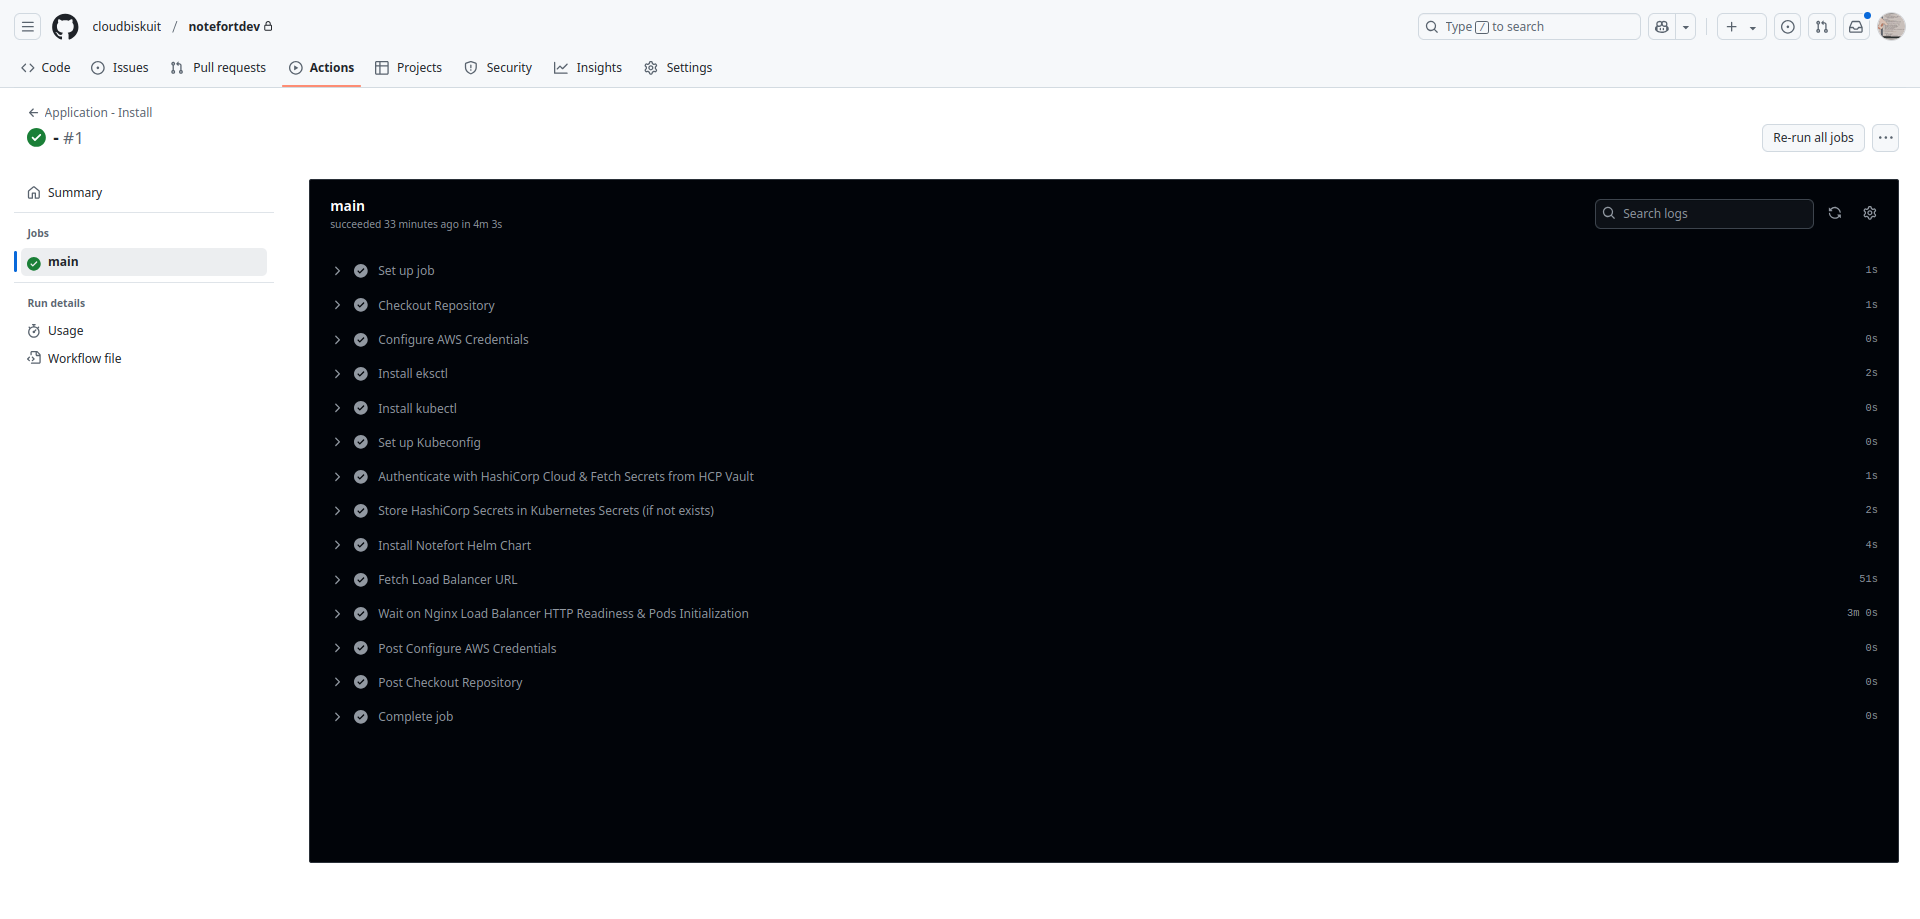
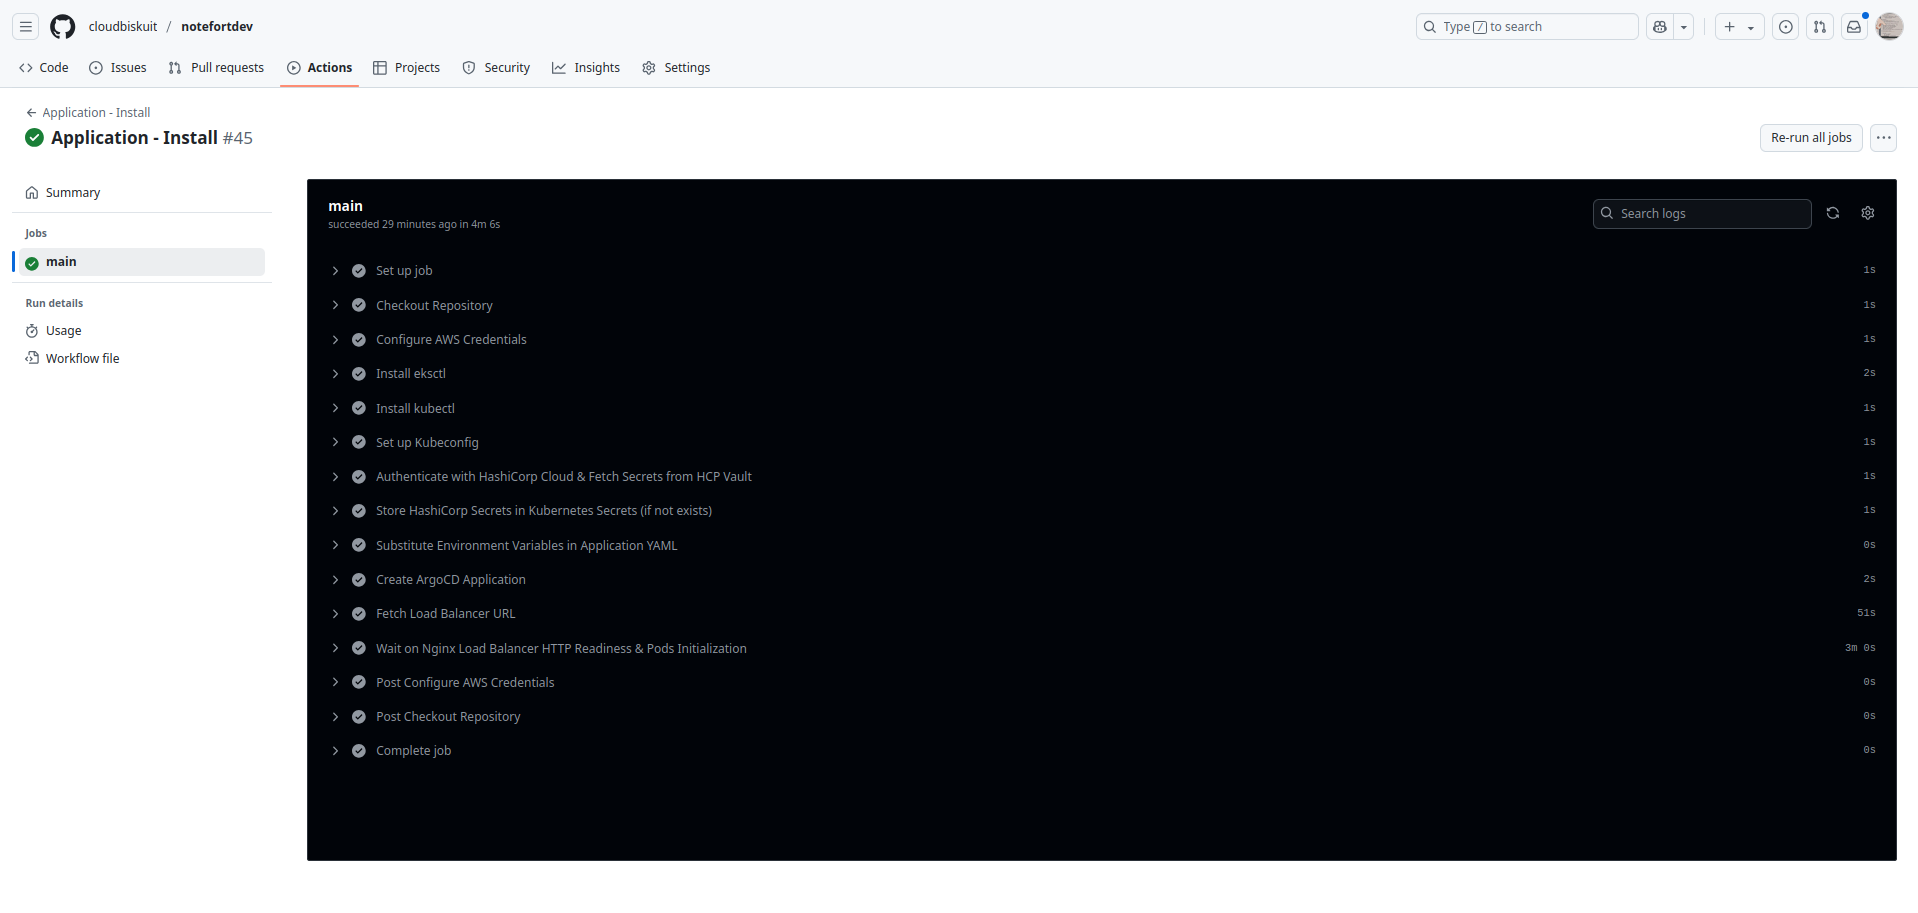
-

diff --git a/README.md b/README.md
@@ -2,7 +2,7 @@
 No matter the size of your enterprise application, you could benefit from the design and deployment principles of NoteFort to ensure scalability and resilience in the cloud.
 
 ## Purpose
-My primary goal is to demonstrate my expertise in cloud design and DevOps best practices.  
+My primary goal is to demonstrate my expertise in cloud, DevOps and GitOps best practices.  
 
 ## Description
 NoteFort ensures availability of your notes through a decoupled backend microservices architecture even if individual services experience downtime.  
@@ -44,7 +44,8 @@ Conversely, if nodes are underutilized and pods can be moved to other nodes, the
 HPA adjusts the number of pod replicas based on CPU or memory utilization, ensuring optimal load distribution and availability.  
 VPA, on the other hand, dynamically adjusts the resource requests and limits of individual pods based on usage, improving resource efficiency. 
 - **Prometheus & Grafana**: Prometheus is an open-source monitoring and alerting toolkit designed for reliability and scalability. It collects and stores metrics in a time-series database, allowing for real-time monitoring of applications and infrastructure.  
-Grafana is an open-source visualization and analytics platform that integrates with Prometheus to display the collected metrics in customizable, interactive dashboards. 
+Grafana is an open-source visualization and analytics platform that integrates with Prometheus to display the collected metrics in customizable, interactive dashboards.  
+- **ArgoCD**: ArgoCD is a declarative, GitOps-based continuous delivery tool for Kubernetes. It automates application deployment by syncing the desired state from a Git repository to a Kubernetes cluster, ensuring consistency and version control.
 
 ## Try it Out: Prerequisites
 
@@ -79,6 +80,7 @@ Forking does not copy Github Actions Secrets. Create the following Github Action
 
 - **AWS_ACCOUNT_ID**: The 12-digit AWS account number where the resources will be deployed.
 - **AWS_REGION**: The AWS region (e.g., us-east-1) where the infrastructure will be provisioned.
+- **GH_ACCOUNT**: You GitHub account name.
 - **GH_IAM_ROLE**: The name of the IAM role you created in the Prerequisites step.
 - **AWS_USER**: The IAM user to be given administrative priviliges on the EKS cluster, this user will be able to view and manage the new EKS cluster in the AWS Console and from AWS CLI. 
 - **HCP_CLIENT_ID**: The HCP service principal client ID.
@@ -116,18 +118,15 @@ This workflow performs the following jobs:
 - Intialize Terraform state in the newly created bucket.
 - Provision the AWS infrastructure and the EKS cluster resources.
 - Map the IAM user to Kubernetes RBAC.
-- Install the Cluster Autoscaler, the Vertical Pod Autoscaler (VPA), and the Metrics Server in the EKS `kube-system` namespace.
-- Install Prometheus and its Adapter, and Grafana in the EKS `monitoring` namespace.
+- Install the Cluster Autoscaler, the Vertical Pod Autoscaler (VPA), and the Metrics Server in the EKS `kube-system` namespace via Helm.
+- Install Prometheus and its Adapter, and Grafana in the EKS `monitoring` namespace via Helm.
+- Install ArgoCD via Helm.
 
-Note: The code is ready for multiple environments (e.g., development and production), modify `dev.tfvars` and `prod.tfvars` as needed (e.g., launch template instance type, node group desired min max). Additionaly, modify `terraform apply` commands to account for `.tfvars` files.
+The Terraform directory structure is ready for multiple environments (e.g., development and production), modify `dev.tfvars` and `prod.tfvars` as needed (e.g., launch template instance type, node group desired min max). Additionaly, modify `terraform apply` commands to account for `.tfvars` files.
 
-Note: the IAM user defined in the GitHub Actions Variable `AWS_USER` will be mapped to the system:masters EKS RBAC group, granting them administrative privileges on the newly created cluster. As a result, `AWS_USER` will be able to view and manage the new EKS cluster in the AWS Console and from AWS CLI. 
+The IAM user defined in the GitHub Actions Variable `AWS_USER` will be mapped to the system:masters EKS RBAC group, granting them administrative privileges on the newly created cluster. As a result, `AWS_USER` will be able to view and manage the new EKS cluster in the AWS Console and from AWS CLI. 
 
-Note: The necessary IAM permissions for the Cluster Autoscaler to modify EKS node groups have already been accounted for by attaching a managed IAM policy to the IAM role associated with the node groups.
-
-Note: Follow the instructions provided in the workflow output to get Grafana password, and to port-forward a tunnel to Grafana. To access Grafana UI on your system, go to: https://localhost:3000
-
-Note: On your system, run the following command to port-forward to Prometheus: kubectl port-forward -n monitoring svc/prometheus-operated `port`:9090 where port is a free port on your local system. To access Prometheus UI on your system, go to: https://localhost:`port`
+The necessary IAM permissions for the Cluster Autoscaler to modify EKS node groups have already been accounted for by attaching a managed IAM policy to the IAM role associated with the node groups.
 
 #### Infrastructure - Destroy
 This workflow destroys the AWS infrastructure and the EKS cluster.
@@ -141,7 +140,7 @@ Additionaly, To delete the S3 bucket and the DynamoDB Table, from your system ru
 Ensure AWC CLI is configured on your system before running this script.
 
 #### Application - Install
-This workflow Installs the application Helm chart. The `URL` will be provided in the terminal output after the Workflow completes.
+This workflow Creates an ArgoCD Application using NoteFort Helm chart. After the Workflow completes, the `URL` will be provided in the terminal output.
 
 Note: The Helm chart is ready for multiple instances of the application (e.g., development and production).
 
@@ -151,16 +150,25 @@ This workflow performs the following Steps:
 - Scale down stateless services.
 - Gracefully stop RabbitMQ service.
 - Prepare MySql statefulsets for for graceful shutdown and scale them down.
-- Uninstall the application Helm chart.
+- Delete ArgoCD NoteFort Application.
+
+## How to Access Prometheus, Grafana and ArgoCD
+Prometheus:  
+Follow the instructions provided in the workflow output to get the username/password, and to port-forward a tunnel to Prometheus.  
+To access Prometheus UI on your system, go to: https://localhost:`port`
+
+Grafana:  
+Follow the instructions provided in the workflow output to get the username/password, and to port-forward a tunnel to Grafana.  
+To access Grafana UI on your system, go to: https://localhost:`port`
+
+ArgoCD:  
+Follow the instructions provided in the workflow output to get the username/password, and to port-forward a tunnel to ArgoCD.  
+To access ArgoCD UI on your system, go to: https://localhost:`port`
 
 ## PoC
 Here's a demonstration of Notefort successfully deployed on AWS EKS and running as expected, confirming the end-to-end setup from infrastructure provisioning to application deployment.
 
 <br>
-
-<div align="center">
-  <img src="./images/backend-create.png" width="1000">
-</div>  
 
 <div align="center">
   <img src="./images/workflows.png" width="1000">
@@ -199,11 +207,11 @@ Here's a demonstration of Notefort successfully deployed on AWS EKS and running 
 </div>  
 
 <div align="center">
-  <img src="./images/application-install.png" width="1000">
+  <img src="./images/argocd-setup.png" width="1000">
 </div>  
 
 <div align="center">
-  <img src="./images/helm.png" width="1000">
+  <img src="./images/application-install.png" width="1000">
 </div>  
 
 <div align="center">
@@ -216,6 +224,14 @@ Here's a demonstration of Notefort successfully deployed on AWS EKS and running 
 
 <div align="center">
   <img src="./images/artifacts-cleanup.png" width="1000">
+</div>  
+
+<div align="center">
+  <img src="./images/backend-create.png" width="1000">
+</div>  
+
+<div align="center">
+  <img src="./images/helm.png" width="1000">
 </div>  
 
 <div align="center">
@@ -262,8 +278,11 @@ Here's a demonstration of Notefort successfully deployed on AWS EKS and running 
   <img src="./images/grafana.png" width="1000">
 </div>  
 
-## Future Improvements
-- ArgoCD & ArgoRollouts
+<div align="center">
+  <img src="./images/argocd.png" width="1000">
+</div>  
+
+<br>
 
 ## Contact
 [salim.zaza@outlook.com](mailto:salim.zaza@outlook.com)
